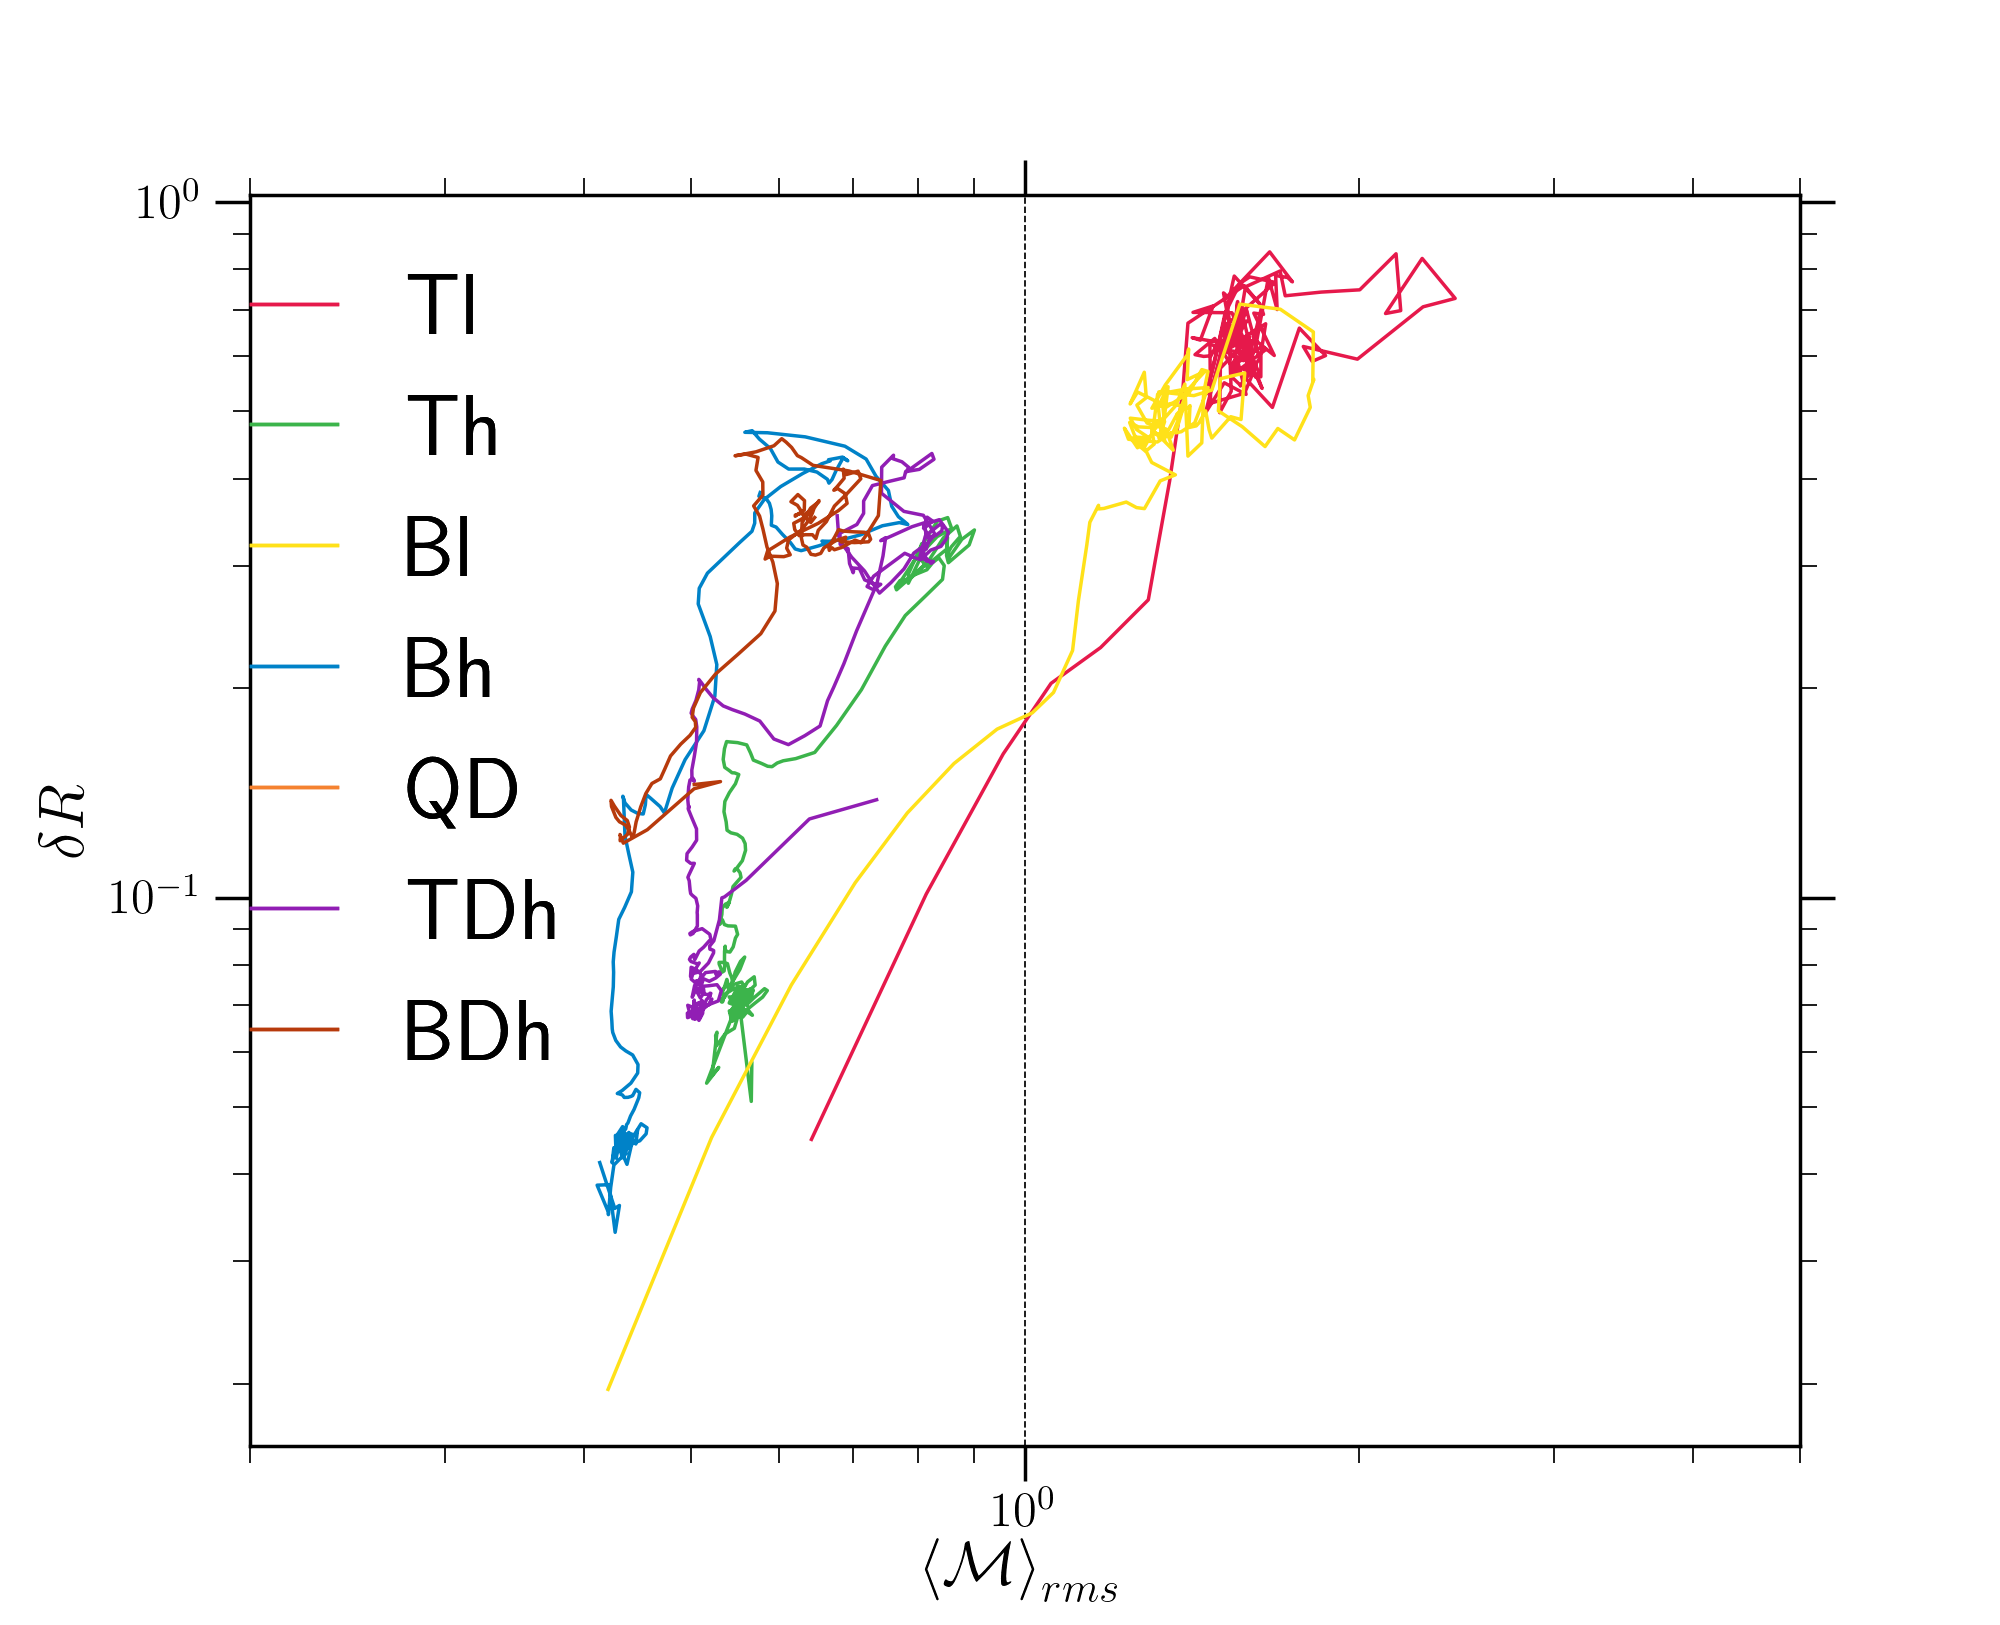
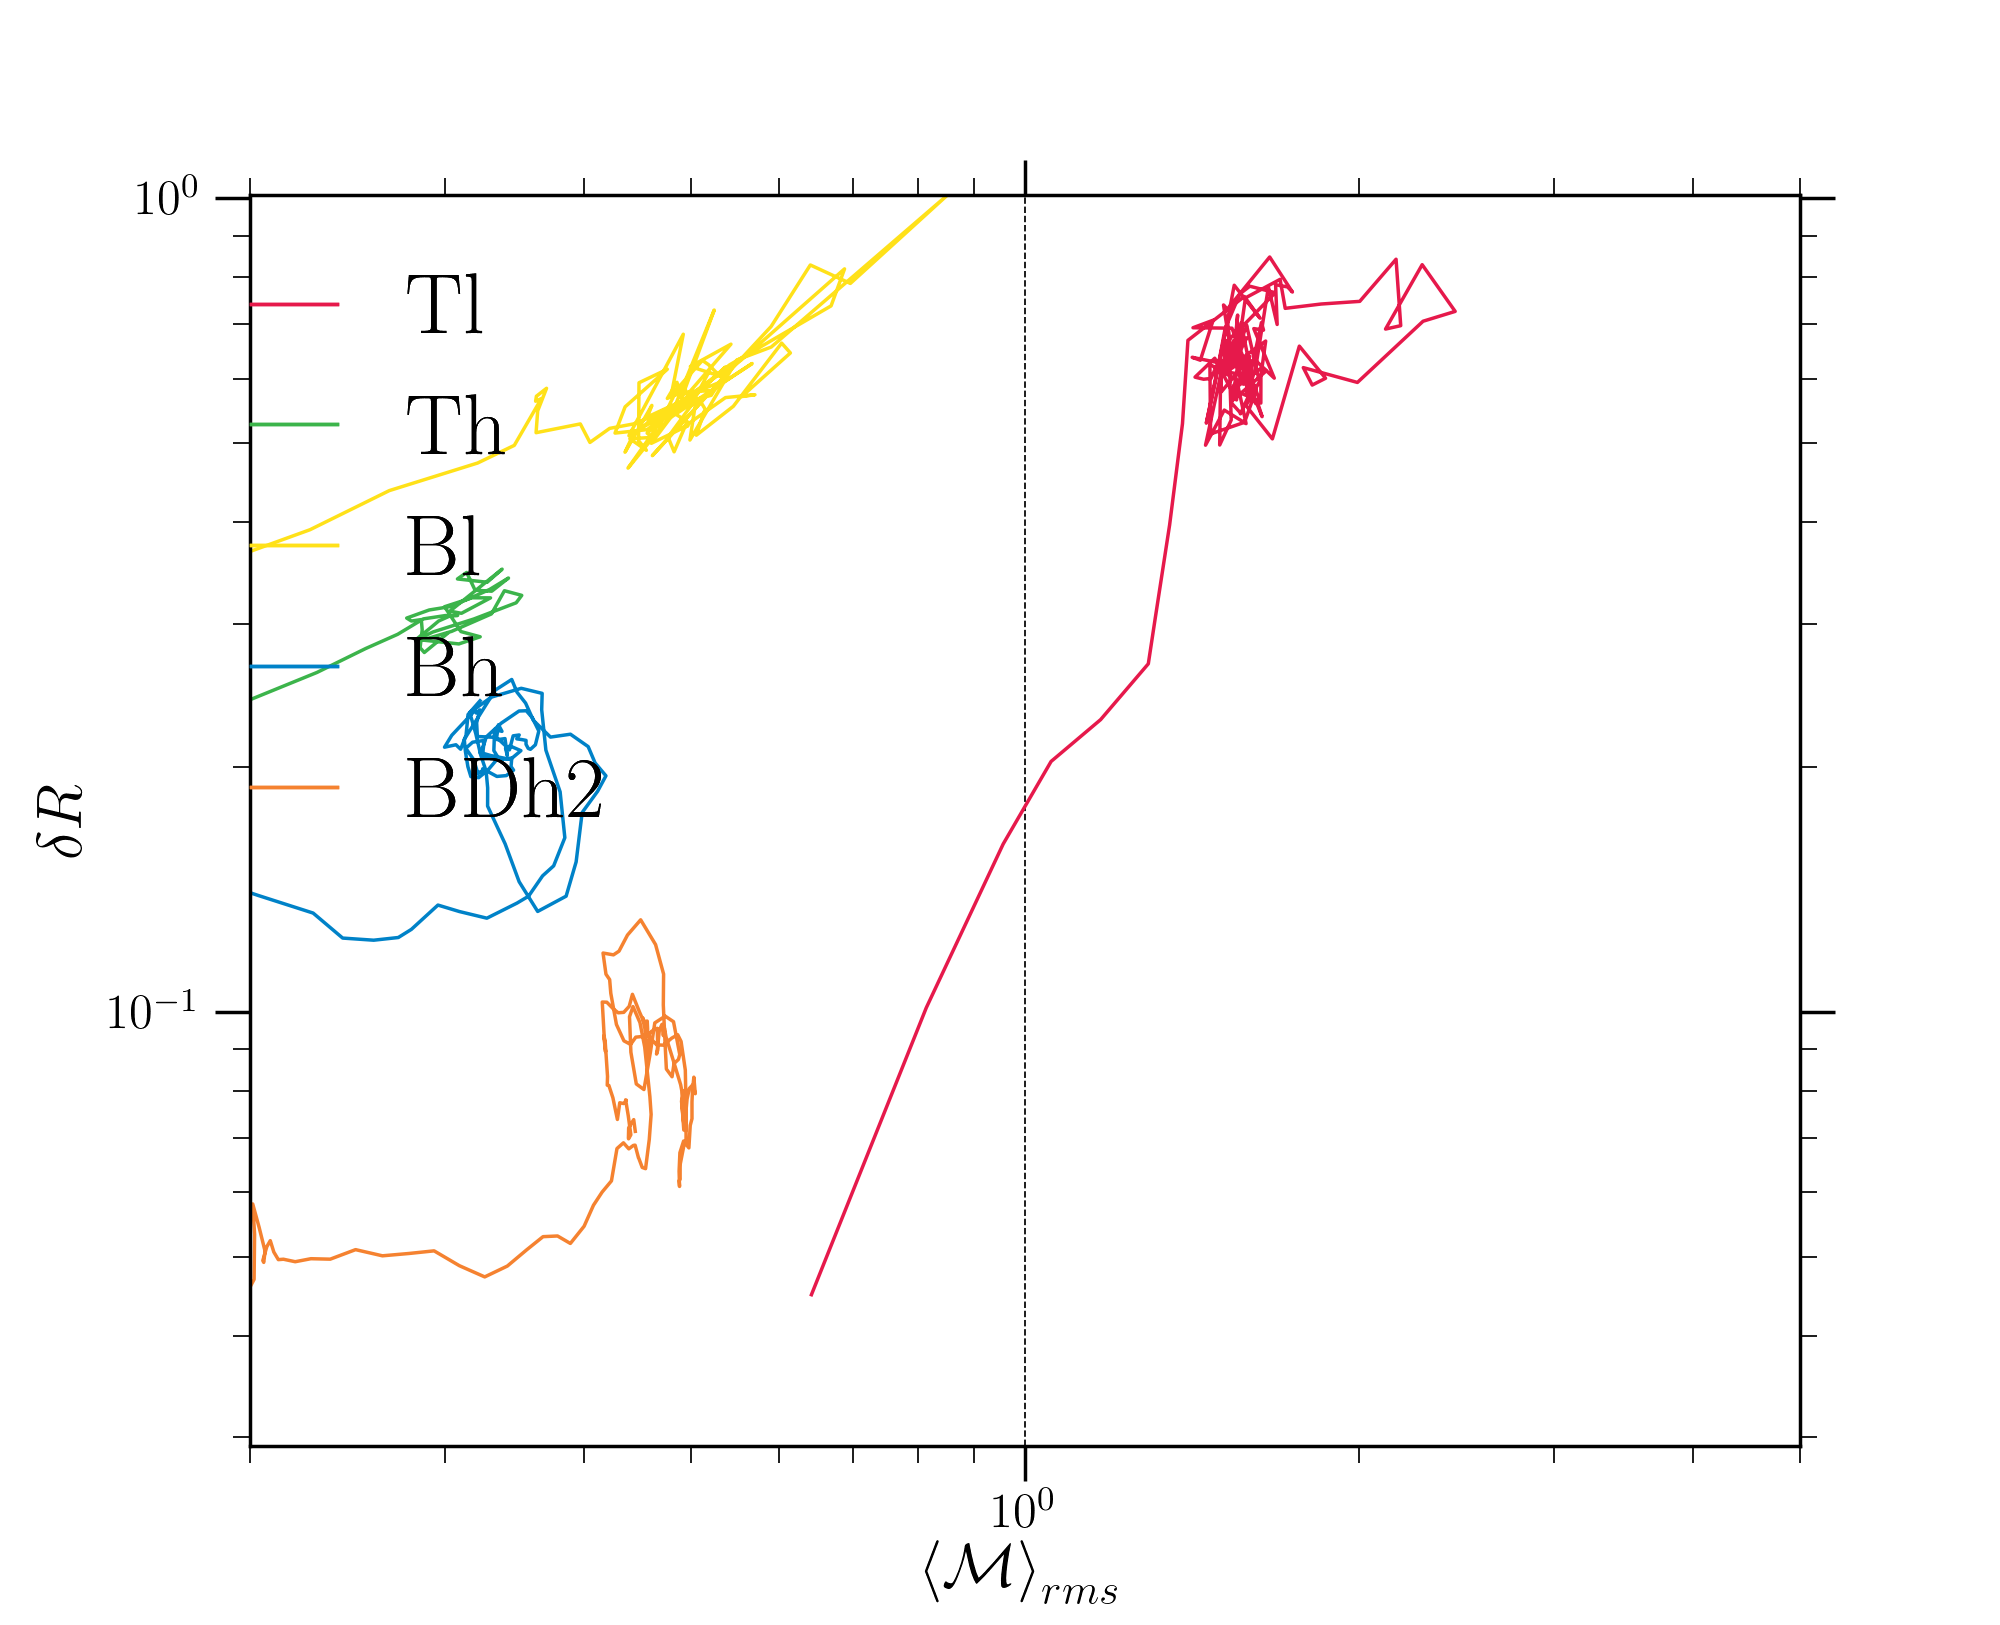
Edited plots

diff --git a/rho-mach/density_mach_all.py b/rho-mach/density_mach_all.py
@@ -16,14 +16,14 @@ plot.rcParams.update(params)
 
 plt.rc('text', usetex=True)
 
-wdir=('T-runs/Tl/', 'T-runs/Th/', 'B-runs/Bl/', 'B-runs/Bh/', 'T-runs/TDh/', 'B-runs/BDh/')
-labels=('Tl', 'Th', 'Bl', 'Bh', 'TDh', 'BDh')
+wdir=('T-runs/Tl/', 'T-runs/Th/', 'B-runs/Bl/', 'B-runs/Bh/', 'B-runs/BDh2/')
+labels=('Tl', 'Th', 'Bl', 'Bh', 'BDh2')
 
 step_size=0.2
 #end=np.array((25., 53.2, 22.2, 53.2))#, 55.4, 31.))
-end=np.array((25., 53.2, 22.2, 53.2, 55.4, 31.))
+end=np.array((25., 53.2, 22.2, 53.2, 33.6))
 start=np.ones(end.size)*step_size
-start_time=np.array((10., 51., 10., 31., 40., 10.))
+start_time=np.array((10., 51., 10., 31., 10.))
 #Load data files
 perturb = [None] * (start.size)
 #t_start sets time at which statistical equilibrium has been reached
@@ -42,7 +42,7 @@ fig.set_size_inches(6.5, 5.)
 ax.set_xlabel(r'$\mathcal{M}_{rms}$', fontsize=20)
 ax.set_ylabel(r'$\delta R$', fontsize=20)
 #ax.set_ylabel(r'$\frac{5}{3}\frac{\left<\delta\rho\right>_{rms}}{\left<\rho\right>}$, $\frac{\left<\delta P\right>_{rms}}{\left< P\right>}$', fontsize=16)
-x1=np.arange(0.3,0.8,0.002)
+x1=np.arange(0.25,0.8,0.002)
 y=np.arange(0.8,3.,0.002)
 
 fit[0],= ax.plot(x1,0.6*x1**2,label=r'$\mathcal{M}_{rms}^2$', color=colors[6], linewidth=2.)
@@ -52,7 +52,7 @@ fit[1],= ax.plot(y,0.48*y**1,label=r'$\mathcal{M}_{rms}$', color=colors[9], line
 ax.set_yscale('log')
 ax.set_xscale('log')
 #ax.set_title(r'$\frac{\left<\delta\rho\right>_{rms}}{\left<\rho\right>}$ and $\frac{\left<\delta P\right>_{rms}}{\left< P\right>}$  vs $\left< \mathcal{M}\right>_{rms}$')
-ax.set_xlim(4e-1,3.)
+ax.set_xlim(25e-2,3.)
 ax.set_ylim(0.03,2.)
 
 

diff --git a/surface_brightness/sb_mach_all.py b/surface_brightness/sb_mach_all.py
@@ -16,13 +16,13 @@ plot.rcParams.update(params)
 
 plt.rc('text', usetex=True)
 
-wdir=('T-runs/Tl/', 'T-runs/Th/', 'B-runs/Bl/', 'B-runs/Bh/', 'T-runs/TDh/', 'B-runs/BDh/')
-labels=('Tl', 'Th', 'Bl', 'Bh', 'TDh', 'BDh')
+wdir=('T-runs/Tl/', 'T-runs/Th/', 'B-runs/Bl/', 'B-runs/Bh/', 'B-runs/BDh2/')
+labels=('Tl', 'Th', 'Bl', 'Bh', 'BDh2')
 
 step_size=0.2
-end=np.array((25., 53.2, 22.2, 53.2, 55.4, 31.))
+end=np.array((25., 53.2, 22.2, 53.2, 33.6))
 start=np.ones(end.size)*step_size
-start_time=np.array((10., 51., 10., 31., 40., 10.))
+start_time=np.array((10., 51., 10., 31., 10.))
 #Load data files
 perturb = [None] * (start.size)
 #t_start sets time at which statistical equilibrium has been reached
@@ -41,7 +41,7 @@ fig.set_size_inches(6.5, 5.)
 ax.set_xlabel(r'$\mathcal{M}_{rms}$', fontsize=20)
 ax.set_ylabel(r'$\delta R$', fontsize=20)
 #ax.set_ylabel(r'$\frac{1.5\left<\delta\rho\right>_{rms}}{\left<\rho\right>}$, $\frac{\left<\delta P\right>_{rms}}{\left< P\right>}$', fontsize=16)
-x1=np.arange(0.3, 0.8, 0.002)
+x1=np.arange(0.25, 0.8, 0.002)
 y=np.arange(0.8, 4.0, 0.002)
 
 fit[0],= ax.plot(x1,0.25*x1**2,label=r'$\mathcal{M}_{rms}^2$', color=colors[6], linewidth=2.)
@@ -51,7 +51,7 @@ fit[1],= ax.plot(y,0.2*y**1,label=r'$\mathcal{M}_{rms}$', color=colors[9], linew
 ax.set_yscale('log')
 ax.set_xscale('log')
 #ax.set_title(r'$\frac{\left<\delta\rho\right>_{rms}}{\left<\rho\right>}$ and $\frac{\left<\delta P\right>_{rms}}{\left< P\right>}$  vs $\left< \mathcal{M}\right>_{rms}$')
-ax.set_xlim(4e-1,3.)
+ax.set_xlim(25e-2,3.)
 ax.set_ylim(1e-2,4.)
 
 

diff --git a/rho-mach/density_mach_cooling.py b/rho-mach/density_mach_cooling.py
@@ -18,11 +18,13 @@ plt.rc('text', usetex=True)
 
 #Declare all parameters and filenames, file location
 
-wdir=('T-runs/Tl/', 'T-runs/Th/', 'B-runs/Bl/', 'B-runs/Bh/', 'T-runs/TDh/', 'B-runs/BDh/')
-labels=('Tl', 'Th', 'Bl', 'Bh', 'QD', 'TDh', 'BDh')
+#wdir=('T-runs/Tl/', 'T-runs/Th/', 'B-runs/Bl/', 'B-runs/Bh/', 'T-runs/TDh/', 'B-runs/BDh/')
+#labels=('Tl', 'Th', 'Bl', 'Bh', 'QD', 'TDh', 'BDh')
+wdir=('T-runs/Tl/', 'T-runs/Th/', 'B-runs/Bl/', 'B-runs/Bh/', 'B-runs/BDh2/')
+labels=('Tl', 'Th', 'Bl', 'Bh', 'BDh2')
 
 step_size=0.2
-end=np.array((24.8, 53.2, 24., 42.4, 19., 55.4, 31.))
+end=np.array((24.8, 53.2, 22.2, 53.2, 33.6))
 start=np.ones(end.size)*step_size
 #start=np.array((10., 51., 10., 42., 10.4, 42., 15.))
 #Load data files
